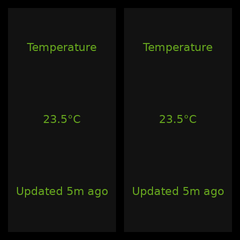
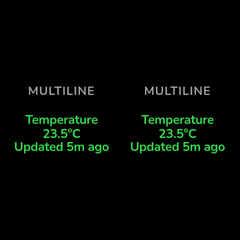
docs: regenerate the multiline text samples
The samples from #110 were rendered by the old Pillow pipeline. Their
label moves to WidgetConfig.label, where the widget reads it.

diff --git a/scripts/generate_samples.py b/scripts/generate_samples.py
@@ -828,7 +828,8 @@ def generate_widget_sizes(renderer: Renderer, output_dir: Path) -> None:
                 widget_type="text",
                 slot=slot,
                 color=COLOR_LIME,
-                options={"text": "Temperature\n23.5°C\nUpdated 5m ago", "label": "Multiline"},
+                label="Multiline",
+                options={"text": "Temperature\n23.5°C\nUpdated 5m ago"},
             )
         )
 
